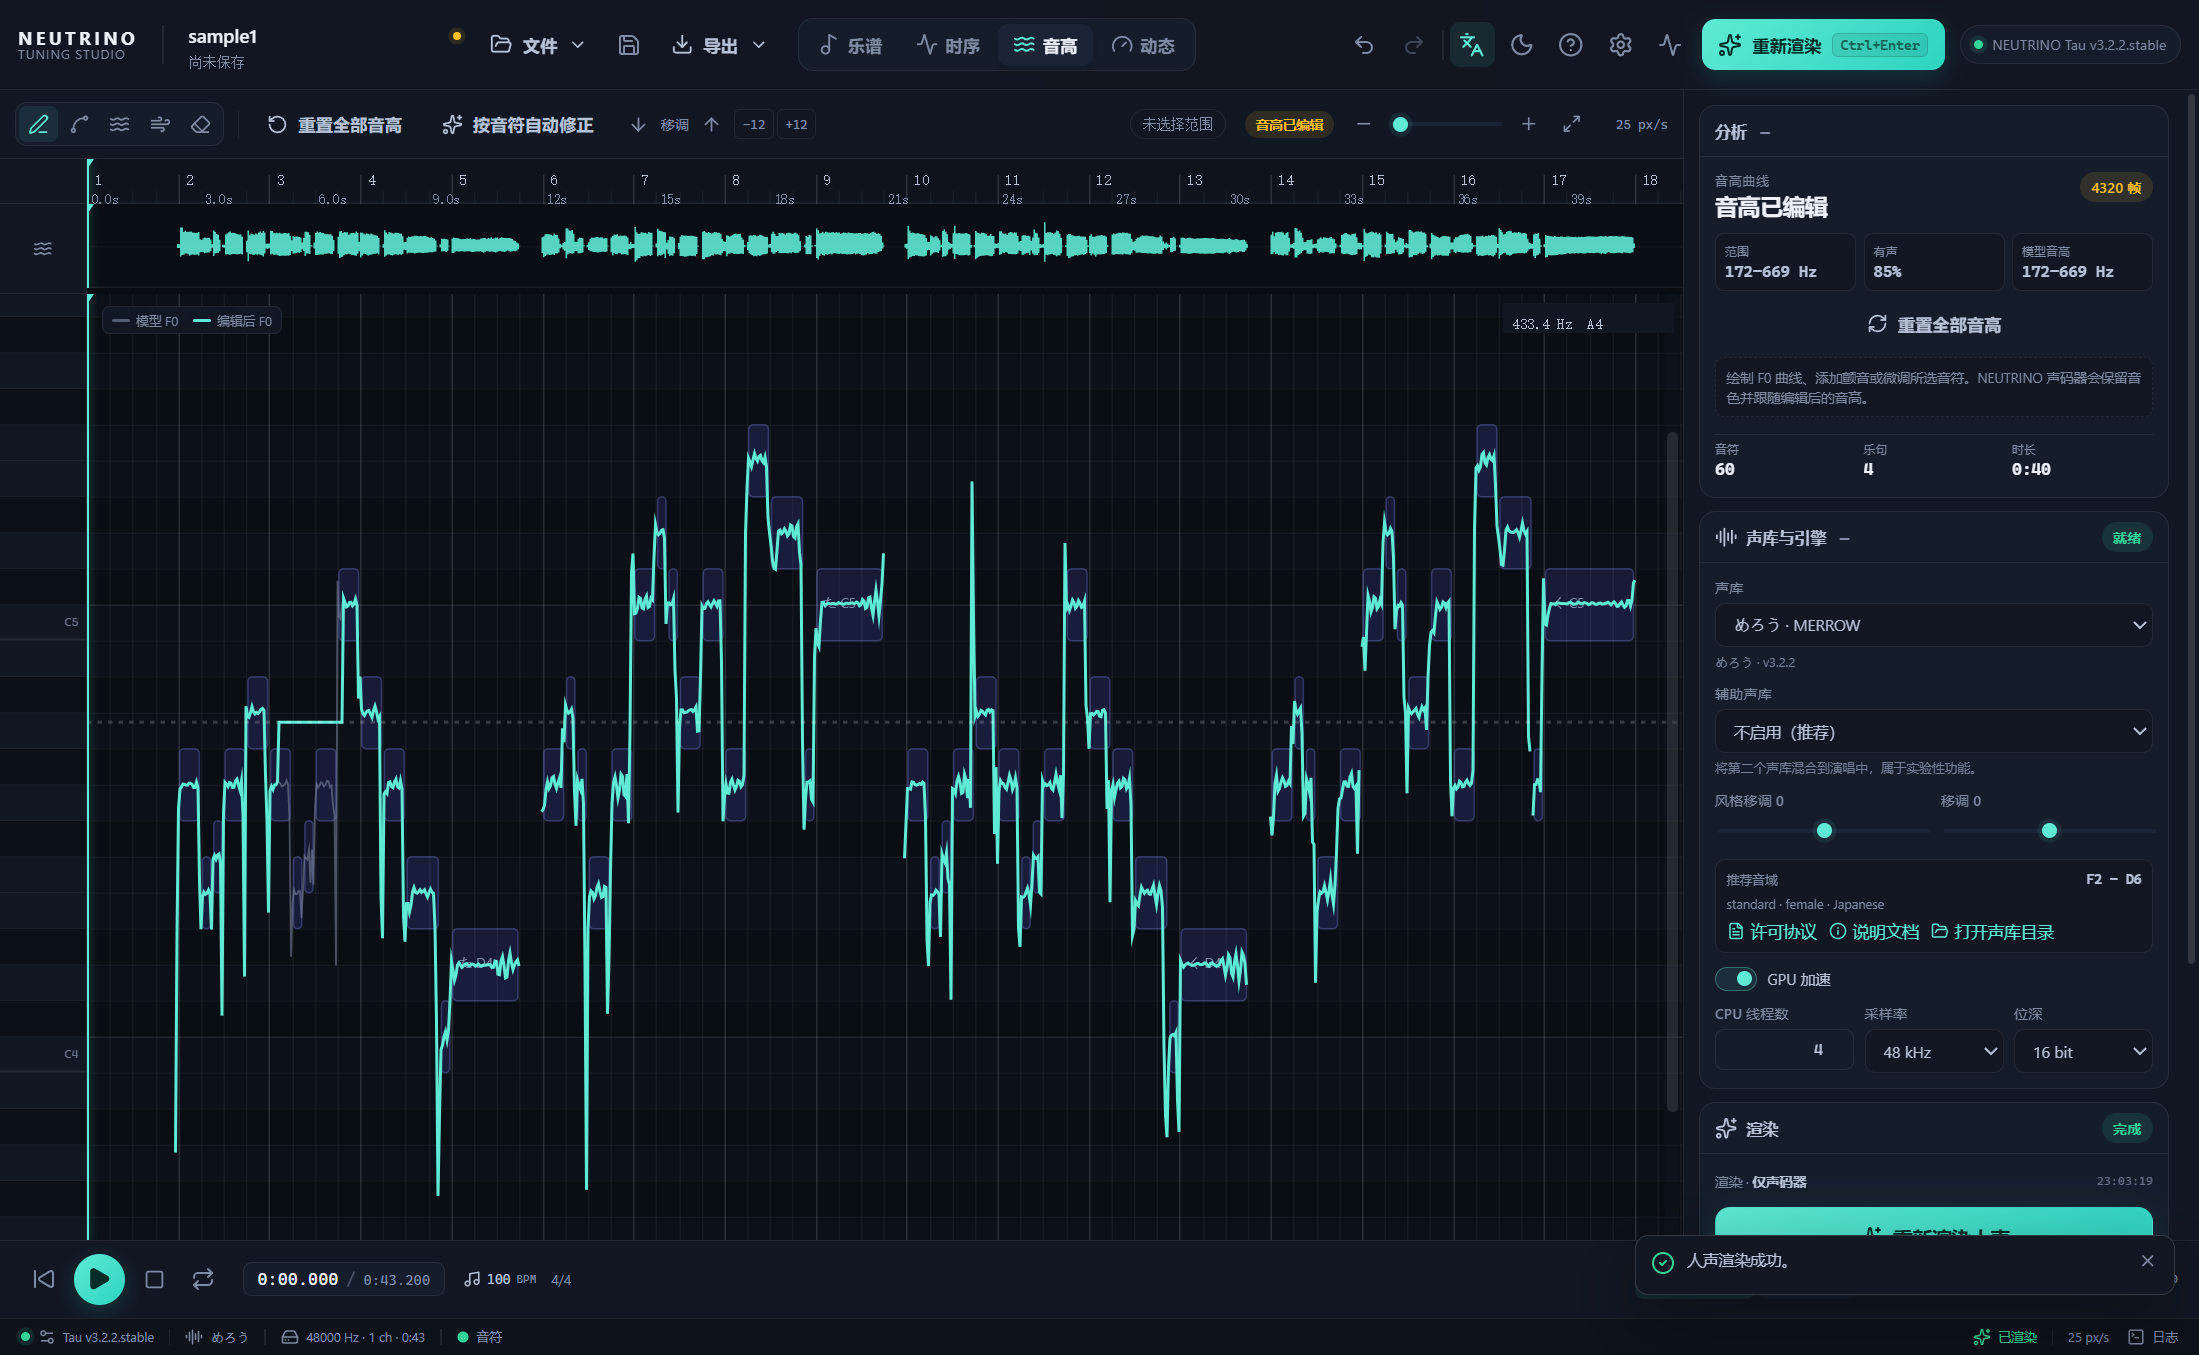
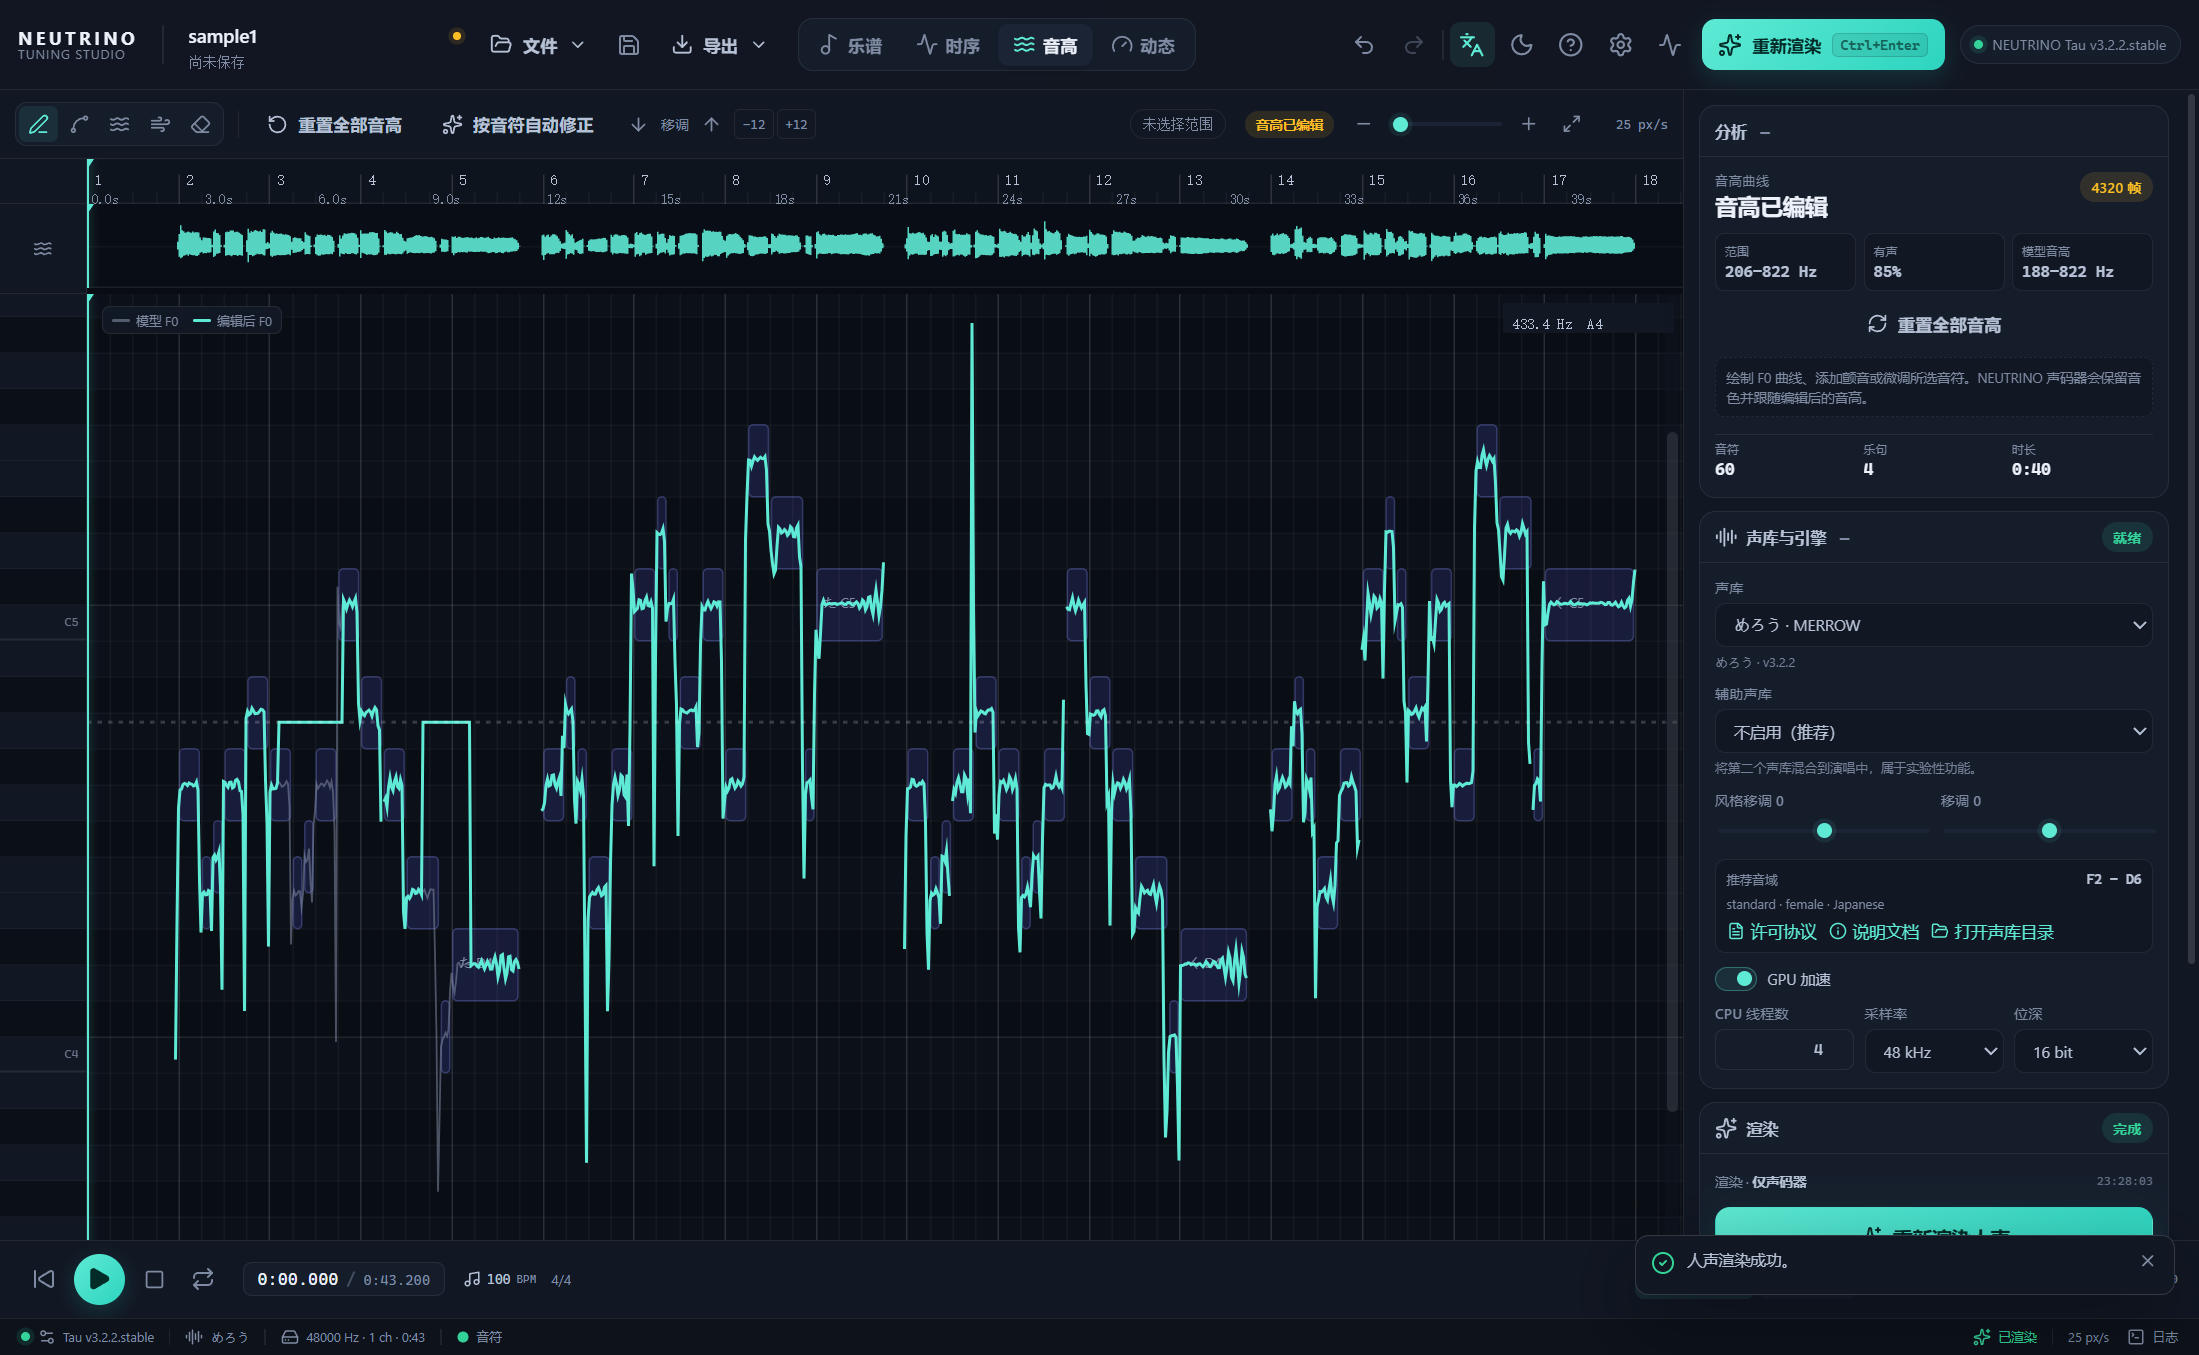
Test dirty-region edge cases and fix repeated pitch render guard

diff --git a/tests/phrases.test.ts b/tests/phrases.test.ts
@@ -1,6 +1,6 @@
 import { describe, expect, it } from 'vitest';
 import { createRequire } from 'node:module';
-import { dirtyFrameCount, dirtyPhraseIndices, dirtyPhraseRanges } from '../src/lib/phrases';
+import { dirtyFrameCount, dirtyPhraseIndices, dirtyPhraseRanges, f0Changed } from '../src/lib/phrases';
 import type { PhraseInfo } from '../src/lib/types';
 
 const require = createRequire(import.meta.url);
@@ -91,6 +91,36 @@ describe('phrase lists', () => {
     expect(ranges[1]).toMatchObject({ startFrame: 145, endFrame: 156 });
     expect(dirtyPhraseIndices(phrases, previous, current)).toEqual([1]);
   });
+
+  it('handles empty, mismatched, silent and boundary-clamped input', () => {
+    expect(dirtyPhraseRanges([], new Float32Array(0), new Float32Array(0))).toEqual([]);
+    expect(dirtyPhraseRanges([{ index: 1, startFrame: 0, endFrame: 10, sung: true }], new Float32Array(5), new Float32Array(6))).toEqual([]);
+    const silent: PhraseInfo = { index: 1, startFrame: 0, endFrame: 10, sung: false };
+    expect(dirtyPhraseRanges([silent], new Float32Array(10), new Float32Array(10).fill(220))).toEqual([]);
+    const phrases: PhraseInfo[] = [{ index: 1, startFrame: 5, endFrame: 10, sung: true }];
+    const previous = new Float32Array(10);
+    const current = new Float32Array(10);
+    current[9] = 220;
+    const range = dirtyPhraseRanges(phrases, previous, current)[0];
+    expect(range.startFrame).toBe(5);
+    expect(range.endFrame).toBe(10);
+    expect(range.changedFrames).toBe(1);
+  });
+
+  it('detects F0 differences while ignoring sub-threshold jitter', () => {
+    const a = new Float32Array([0, 220, 440]);
+    expect(f0Changed(a, a.slice())).toBe(false);
+    const jitter = a.slice();
+    jitter[1] += 0.01;
+    expect(f0Changed(a, jitter)).toBe(false);
+    const changed = a.slice();
+    changed[2] = 441;
+    expect(f0Changed(a, changed)).toBe(true);
+    const voiced = a.slice();
+    voiced[1] = 0;
+    expect(f0Changed(a, voiced)).toBe(true);
+    expect(f0Changed(a, new Float32Array(2))).toBe(true);
+  });
 });
 
 describe('phrase WAV splicing', () => {
@@ -128,6 +158,71 @@ describe('phrase WAV splicing', () => {
     expect(sampleAt(9600)).toBeCloseTo(0.9, 2);
     expect(sampleAt(10079)).toBeCloseTo(0.9, 2);
     expect(sampleAt(10080)).toBeCloseTo(0, 5);
+  });
+
+  it('splices multiple sub-windows from one rendered phrase', () => {
+    const base = makeWav16(new Array(48000).fill(0));
+    const phrase = makeWav16(new Array(4800).fill(0.7));
+    const replaced = splicePhraseWav(
+      base,
+      [
+        { startFrame: 20, endFrame: 21, sourceStartFrame: 2, sourceEndFrame: 3, buffer: phrase },
+        { startFrame: 30, endFrame: 31, sourceStartFrame: 4, sourceEndFrame: 5, buffer: phrase },
+      ],
+      { crossfadeMs: 0 },
+    );
+    const parsed = parseWav(replaced);
+    const sampleAt = (i: number) => replaced.readInt16LE(parsed.dataOffset + i * 2) / 32768;
+    expect(sampleAt(9599)).toBeCloseTo(0, 5);
+    expect(sampleAt(9600)).toBeCloseTo(0.7, 2);
+    expect(sampleAt(10079)).toBeCloseTo(0.7, 2);
+    expect(sampleAt(10080)).toBeCloseTo(0, 5);
+    expect(sampleAt(14399)).toBeCloseTo(0, 5);
+    expect(sampleAt(14400)).toBeCloseTo(0.7, 2);
+  });
+
+  it('limits a short source window without corrupting the base', () => {
+    const base = makeWav16(new Array(48000).fill(0));
+    const phrase = makeWav16(new Array(4800).fill(0.6));
+    const replaced = splicePhraseWav(
+      base,
+      [{ startFrame: 20, endFrame: 30, sourceStartFrame: 9, sourceEndFrame: 10, buffer: phrase }],
+      { crossfadeMs: 0 },
+    );
+    const parsed = parseWav(replaced);
+    const sampleAt = (i: number) => replaced.readInt16LE(parsed.dataOffset + i * 2) / 32768;
+    expect(sampleAt(9600)).toBeCloseTo(0.6, 2);
+    expect(sampleAt(9600 + 479)).toBeCloseTo(0.6, 2);
+    expect(sampleAt(9600 + 480)).toBeCloseTo(0, 5);
+  });
+
+  it('splices full-song timing windows and preserves everything else', () => {
+    const base = makeWav16(new Array(96000).fill(0));
+    const next = makeWav16(new Array(96000).fill(0.5));
+    const replaced = splicePhraseWav(
+      base,
+      [
+        { startFrame: 50, endFrame: 55, sourceStartFrame: 50, sourceEndFrame: 55, buffer: next },
+        { startFrame: 100, endFrame: 105, sourceStartFrame: 100, sourceEndFrame: 105, buffer: next },
+      ],
+      { crossfadeMs: 0 },
+    );
+    const parsed = parseWav(replaced);
+    const sampleAt = (i: number) => replaced.readInt16LE(parsed.dataOffset + i * 2) / 32768;
+    expect(sampleAt(23999)).toBeCloseTo(0, 5);
+    expect(sampleAt(24000)).toBeCloseTo(0.5, 2);
+    expect(sampleAt(26399)).toBeCloseTo(0.5, 2);
+    expect(sampleAt(26400)).toBeCloseTo(0, 5);
+    expect(sampleAt(47999)).toBeCloseTo(0, 5);
+    expect(sampleAt(48000)).toBeCloseTo(0.5, 2);
+    expect(sampleAt(50399)).toBeCloseTo(0.5, 2);
+    expect(sampleAt(50400)).toBeCloseTo(0, 5);
+  });
+
+  it('rejects a phrase WAV with a different format', () => {
+    const base = makeWav16(new Array(4800).fill(0));
+    const phrase = makeWav16(new Array(480).fill(0.5), 44100);
+    expect(() => splicePhraseWav(base, [{ startFrame: 20, endFrame: 21, buffer: phrase }])).toThrow(/format/i);
   });
 
   it('fades the phrase boundaries into the existing take', () => {

diff --git a/src/state/useAppStore.ts b/src/state/useAppStore.ts
@@ -75,7 +75,7 @@ import { musicXmlForNeutrino, importMusicXml, exportMusicXml } from '../lib/musi
 import { importMidi } from '../lib/midi';
 import { checkLyric } from '../lib/lyrics';
 import { timelineEnd } from '../lib/timeline';
-import { dirtyPhraseRanges } from '../lib/phrases';
+import { dirtyPhraseRanges, f0Changed } from '../lib/phrases';
 import { audioEngine } from '../lib/audio';
 import {
   clamp,
@@ -1867,15 +1867,30 @@ export const useAppStore = create<AppState>((set, get) => {
       const currentTimingHash = s.timing ? timingHash(s.timing.text) : '';
       const timingChanged = Boolean(s.timing && rendered && rendered.timingHash !== currentTimingHash);
       let mode: RenderMode;
+      let previousF0: Float32Array | null = null;
       if (!rendered || rendered.scoreHash !== scoreHash || rendered.synthHash !== synthSig) {
         mode = 'full';
       } else if (timingChanged) {
         mode = 'timing';
-      } else if (s.pitchEdited) {
-        mode = 'vocode';
       } else {
-        s.pushToast('info', i18n.t('notifications.noAudioChanges'));
-        return;
+        if (s.currentF0 && rendered.f0Path) {
+          try {
+            const bytes = await window.api.readBinary(rendered.f0Path);
+            previousF0 = bytes ? parseF0(new Uint8Array(bytes)) : null;
+          } catch {
+            previousF0 = null;
+          }
+        }
+        const currentF0 = s.currentF0;
+        let pitchChanged = false;
+        if (currentF0) {
+          pitchChanged = previousF0 ? f0Changed(previousF0, currentF0) : s.pitchEdited;
+        }
+        if (!pitchChanged) {
+          s.pushToast('info', i18n.t('notifications.noAudioChanges'));
+          return;
+        }
+        mode = 'vocode';
       }
       const timingWindows =
         mode === 'timing' && s.timingBase && s.timing ? dirtyTimingWindows(s.timingBase, s.timing) : null;
@@ -1898,32 +1913,25 @@ export const useAppStore = create<AppState>((set, get) => {
       if (
         mode === 'vocode' &&
         rendered?.phrases?.length &&
+        previousF0 &&
         s.currentF0 &&
-        rendered.f0Path
+        previousF0.length === s.currentF0.length
       ) {
-        try {
-          const bytes = await window.api.readBinary(rendered.f0Path);
-          const previous = bytes ? parseF0(new Uint8Array(bytes)) : null;
-          if (previous && previous.length === s.currentF0.length) {
-            const ranges = dirtyPhraseRanges(rendered.phrases, previous, s.currentF0);
-            const changedFrames = ranges.reduce((sum, range) => sum + range.changedFrames, 0);
-            const phraseCount = new Set(ranges.map((range) => range.index)).size;
-            if (
-              ranges.length > 0 &&
-              phraseCount <= 8 &&
-              changedFrames > 0 &&
-              changedFrames <= s.currentF0.length * 0.5
-            ) {
-              mode = 'phrase';
-              phrasePlan = {
-                phrases: rendered.phrases,
-                indices: [...new Set(ranges.map((range) => range.index))],
-                ranges: ranges.map(({ index, startFrame, endFrame }) => ({ index, startFrame, endFrame })),
-              };
-            }
-          }
-        } catch {
-          // Missing/corrupt previous F0: safely fall back to a full vocode.
+        const ranges = dirtyPhraseRanges(rendered.phrases, previousF0, s.currentF0);
+        const changedFrames = ranges.reduce((sum, range) => sum + range.changedFrames, 0);
+        const phraseCount = new Set(ranges.map((range) => range.index)).size;
+        if (
+          ranges.length > 0 &&
+          phraseCount <= 8 &&
+          changedFrames > 0 &&
+          changedFrames <= s.currentF0.length * 0.5
+        ) {
+          mode = 'phrase';
+          phrasePlan = {
+            phrases: rendered.phrases,
+            indices: [...new Set(ranges.map((range) => range.index))],
+            ranges: ranges.map(({ index, startFrame, endFrame }) => ({ index, startFrame, endFrame })),
+          };
         }
       }
 

diff --git a/tests/core.test.ts b/tests/core.test.ts
@@ -105,6 +105,23 @@ describe('F0 data', () => {
     });
   });
 
+  it('handles null, unchanged and sub-threshold timing input', () => {
+    const base = parseTimingText('0 10000000 a\n10000000 20000000 b\n20000000 30000000 c\n')!;
+    expect(dirtyTimingWindows(null, base)).toBeNull();
+    expect(dirtyTimingWindows(base, base)).toEqual([]);
+    const tiny = parseTimingText(serializeTiming(updateBoundary(base.phonemes, 1, 1.0001)))!;
+    expect(dirtyTimingWindows(base, tiny)).toEqual([]);
+    expect(dirtyTimingWindows(base, parseTimingText('0 10000000 a\n10000000 30000000 d\n')!)).toBeNull();
+  });
+
+  it('clamps a moved last boundary into a dirty frame window', () => {
+    const base = parseTimingText('0 10000000 a\n10000000 20000000 b\n20000000 30000000 c\n')!;
+    const current = parseTimingText(serializeTiming(updateBoundary(base.phonemes, 2, 2.5)))!;
+    const windows = dirtyTimingWindows(base, current);
+    expect(windows).toHaveLength(1);
+    expect(windows![0]).toMatchObject({ startFrame: 195, endFrame: 255, changedBoundaries: 1 });
+  });
+
   it('merges close timing windows and rejects phoneme structure changes', () => {
     const base = parseTimingText('0 10000000 a\n10000000 20000000 b\n20000000 30000000 c\n')!;
     const moved = updateBoundary(updateBoundary(base.phonemes, 1, 1.1), 2, 1.12);

diff --git a/src/lib/phrases.ts b/src/lib/phrases.ts
@@ -22,6 +22,14 @@ function frameChanged(a: number, b: number): boolean {
   return Math.abs(a - b) > Math.max(EPSILON_HZ, Math.max(a, b) * 0.001);
 }
 
+export function f0Changed(previousF0: Float32Array, currentF0: Float32Array): boolean {
+  if (previousF0.length !== currentF0.length) return true;
+  for (let i = 0; i < previousF0.length; i++) {
+    if (frameChanged(previousF0[i], currentF0[i])) return true;
+  }
+  return false;
+}
+
 export function dirtyPhraseRanges(
   phrases: PhraseInfo[],
   previousF0: Float32Array,

diff --git a/docs/TEST-REPORT.md b/docs/TEST-REPORT.md
@@ -38,16 +38,18 @@ Date of verification: 2026-10-24 · build 1.1.3
 | Packaged Windows app (unpacked) | PASS — launched via Playwright with a fresh user data directory |
 | Packaged Windows 1.1.3 real render | PASS — detected engine/models, rendered the demo, 21.6 s audio, no leading bar |
 | Installer/portable artifacts | PASS — NSIS and portable EXE produced; associated 32 px icon verified |
-| Unit tests | PASS — 30 Vitest tests (MusicXML round-trip, lead-in rest, timing, F0, dynamics, phrase parsing/splicing, dirty F0/timing windows, project phrase persistence, native macOS runner/search paths, reference timeline, shortcut matching/formatting) |
+| Unit tests | PASS — 38 Vitest tests (MusicXML round-trip, lead-in rest, timing, F0, dynamics, phrase parsing/splicing, dirty F0/timing windows and edge cases, project phrase persistence, native macOS runner/search paths, reference timeline, shortcut matching/formatting) |
 | Playback alignment | PASS — rendered demo first voiced frame 0.01 s; timing starts `0 100000 pau`; no one-bar lead |
 | Light-mode render progress | PASS — running percentage computed color `rgb(15,23,42)` on `rgb(238,243,250)` |
 | Pencil drag | PASS — drag creates one note with extended duration |
 | Eraser drag | PASS — drag across a pitch row removed multiple notes |
 | Overlap feedback | PASS — warning banner shown and overlapping notes outlined red |
 | Dirty-region render (experimental) | PASS — sample1 pitch edit produced a 1.79 s dirty window (frames 500–679); `-p 1` re-vocoded phrase 1; **85,756 samples changed inside the window, 0 outside**; audio reloaded with no errors |
-| Phrase/dirty-window unit tests | PASS — phrase parser, dirty window merging/separation, PCM16 full and sub-window splice/crossfade, project phrase persistence (7 tests) |
+| Two dirty windows in one phrase | PASS — two separated pitch edits produced windows `500–679` and `878–1016`; **151,921 samples changed inside the union, 0 outside** |
+| Phrase/dirty-window unit tests | PASS — phrase parser, dirty window merging/separation, F0 threshold, empty/mismatched/silent input, boundary clamps, PCM16 full/sub-window/multi-window splice, truncated source, format rejection, project phrase persistence (13 tests) |
 | Timing dirty-region (experimental) | PASS — moved a timing boundary; `mode=timing` full engine pass then dirty splice `325–357`; **15,303 samples changed inside, 0 outside** |
-| Dynamics-only render guard | PASS — no score/timing/pitch changes now reports no audio changes instead of starting a full render |
+| Timing-window headless tests | PASS — null/unchanged input, sub-threshold moves, phoneme-structure rejection, merged and last-boundary windows (4 tests) |
+| Dynamics-only render guard | PASS — after a pitch dirty-render, editing only dynamics reports no audio changes and does not start a render |
 | Reference timeline | PASS — 30 s reference extended transport to 0:30; offset -2 produced 0:28; playback from 0:27.7 stopped at the reference end |
 | Reference-only playback | PASS — a loaded reference played without a rendered vocal (0:01.18 after 1.2 s) |
 | Vocal monitor | PASS — custom in-app menu offers 人声 / 正弦波 / 静音 with icons and a selected check; sine mode plays, mute and vocal modes switch live |

diff --git a/docs/INCREMENTAL-RENDERING.md b/docs/INCREMENTAL-RENDERING.md
@@ -104,16 +104,20 @@ quality should be auditioned.
   final WAV is replaced only after all windows succeed. A missing phrase map,
   too many changed phrases, or invalid windows fall back to a full vocode.
   Cancellation leaves the previous take untouched.
-- Unit tests cover phrase parsing, dirty window detection (merged and separated
-  windows), PCM16 sub-window splicing, and project phrase persistence. A
-  real-engine Playwright test imports sample1, changes pitch in phrase 1, and
-  verifies the changed-sample boundaries.
+- Headless tests cover phrase parsing, dirty window detection (merged and
+  separated windows), F0 thresholds, empty/mismatched/silent input, boundary
+  clamping, PCM16 full/sub-window/multi-window splicing, truncated source
+  windows, format rejection, and project phrase persistence. Real-engine
+  Playwright tests cover one and two pitch windows, timing windows, and the
+  dynamics-only no-op guard.
 
 Measured on sample1 (43.2 s, 48 kHz):
 
 - Pitch edit: a **1.79 s** dirty window (frames 500–679); **85,756 samples
   changed inside, 0 outside**. The previous whole-phrase splice changed roughly
   434,000 samples.
+- Two separated pitch edits in one phrase: windows `500–679` and `878–1016`;
+  **151,921 samples changed inside the union, 0 outside**.
 - Timing boundary edit: a **0.32 s** dirty window (frames 325–357); **15,303
   samples changed inside, 0 outside**. The timing engine pass was still full;
   only the audio replacement was dirty-region.
